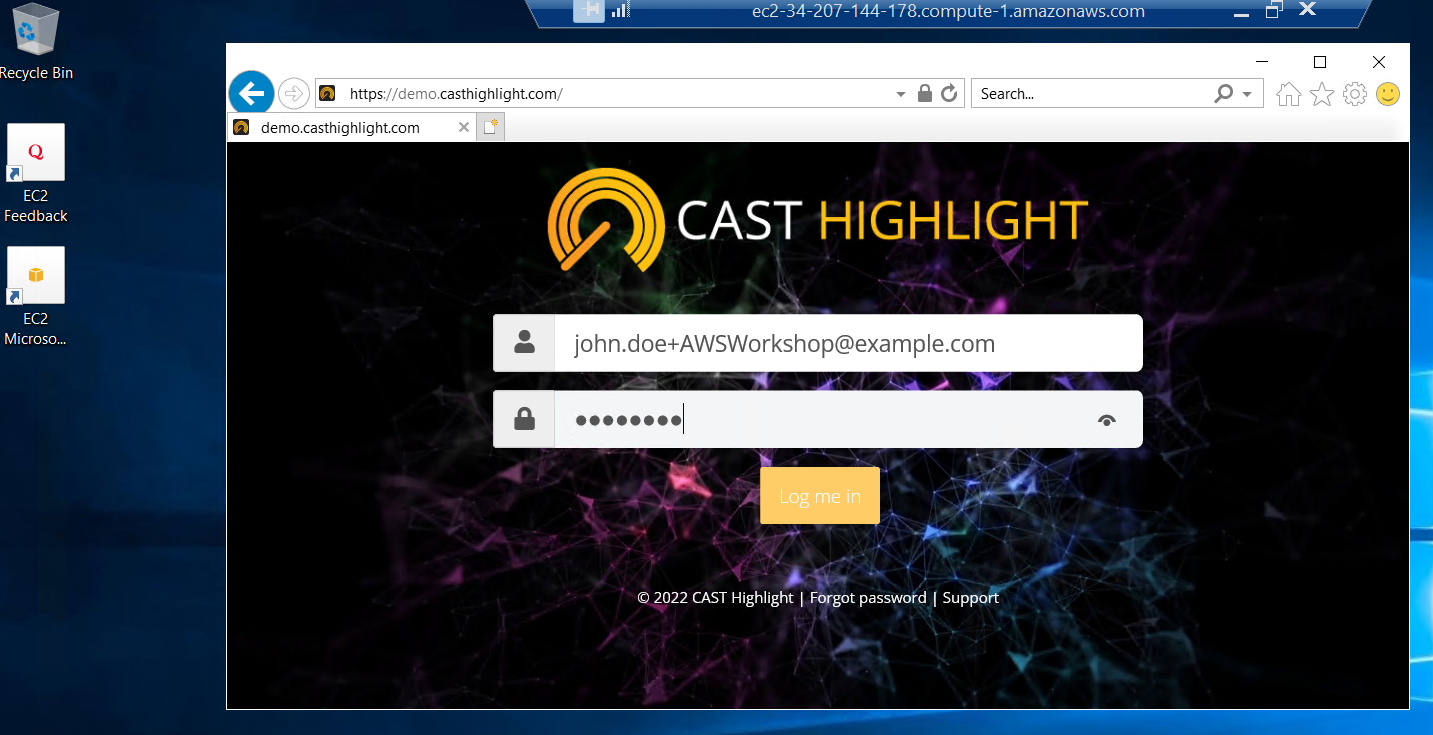
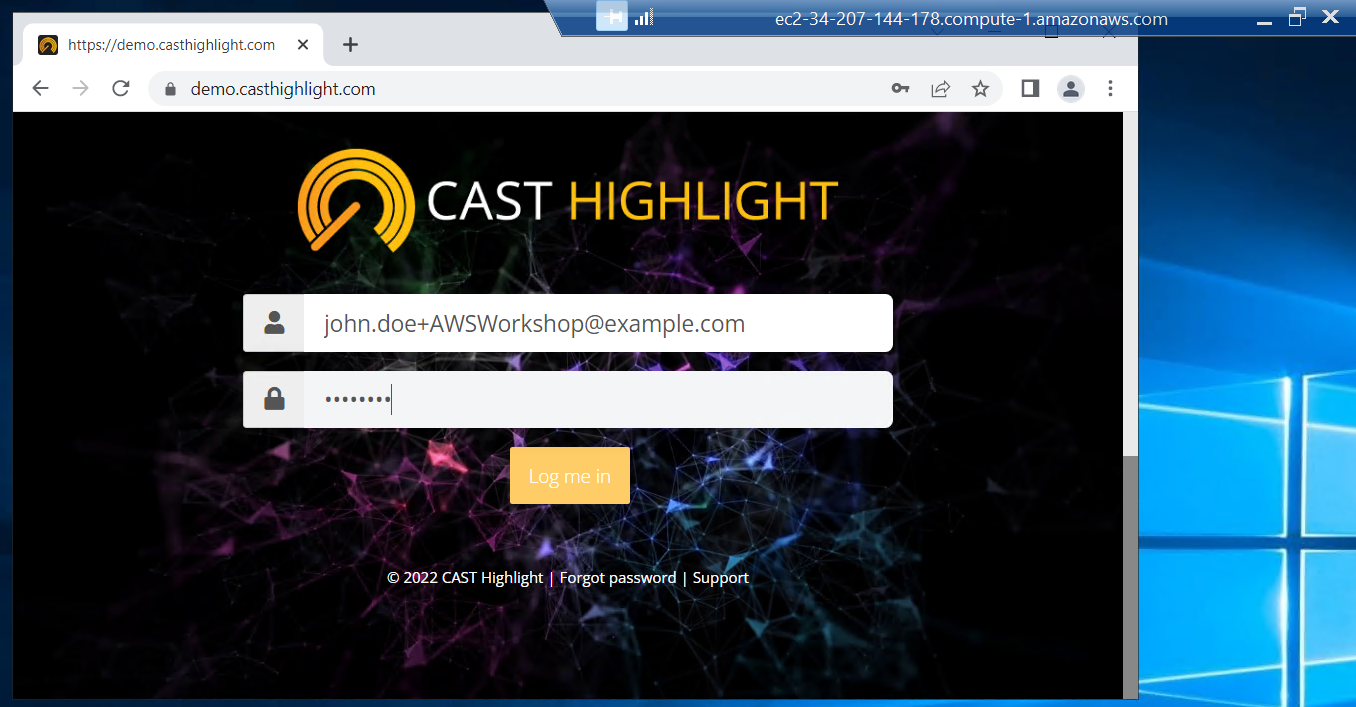
Addenda and fixes for ISSUE-1

diff --git a/content/2_Setup/24_Install_Agent.md b/content/2_Setup/24_Install_Agent.md
@@ -21,9 +21,25 @@ If your machine is not Windows-based, we can quickly spin one up on EC2. A compl
 - Launching a fresh instance (we recommend using the *Microsoft Windows Server 2019 Base* AMI of type *t3.large*)
 - Creating a private key (.pem) file
 - Decrypting the administrator password
-- RDPing to the machine and installing your favourite browser.
+- RDPing to the machine 
+- Installing your favourite browser. We suggest to use Chrome. Here's how you can install it on the EC2 instance:
+	- Open Internet Explorer and click on the little cogwheel in the top right.
+	- Select ***Internet Options***
+	![Internet Options](/images/Chrome-1.png)
+	- Then go to the ***Security*** tab and click on ***Custom level...***
+	![Security Tab](/images/Chrome-2.png)
+	- Scroll down to ***Downloads*** (it's about in the middle) and change the ***File download*** setting to ***Enable***
+	![Security Settings](/images/Chrome-3.png)
+	- Click on ***OK***, validate the warning, then click on ***OK***.
+	- You may now paste this URL in the address bar: http://dl.google.com/chrome/install/149.27/chrome_installer.exe
+	- You should accept the download and run it. After a few seconds, you'll be staring at a chrome welcome window.
+	![Chrome Installed](/images/Chrome-4.png)
 
-Then you should copy the applications to scan onto the EC2 instance, and from there log in to your freshly minted account at https://demo.casthighlight.com where you'll proceed to the next step.
+Now, you should copy the applications to scan onto the EC2 instance. Here are direct links to download the code zips from your freshly-installed browser:
+- https://github.com/harismuneer/Flight-Booking-System-JavaServlets_App/archive/refs/heads/master.zip
+- https://github.com/shentar/jAlbum/archive/refs/heads/master.zip
+
+And now that we have everything ready, you can log in to your freshly minted account at https://demo.casthighlight.com where you'll proceed to the next step.
 ![Highlight Portal in an EC2 Instance](/images/Install-3.png)
 
 ## Downloading the Agent

diff --git a/content/2_Setup/23_Declare_Applications.md b/content/2_Setup/23_Declare_Applications.md
@@ -27,7 +27,10 @@ You can give it a name and set yourself as a Contributor (or leave the ***Contri
 
 And you'll see the application added to the list of apps.
 
-Once this is done for the two applications, we can create our campaign.
+Now we can follow the same procedure for the *jAlbum* application:
+![...and another new app](/images/Declare-9.png)
+
+Now that we have declared our two applications, we can create our campaign.
 
 ## Launching the campaign
 Click on the ***APPLICATION SCANS*** and you'll reach the campaign management page. From there, click on the ***Launch a new Campaign*** button and follow the Wizard:
